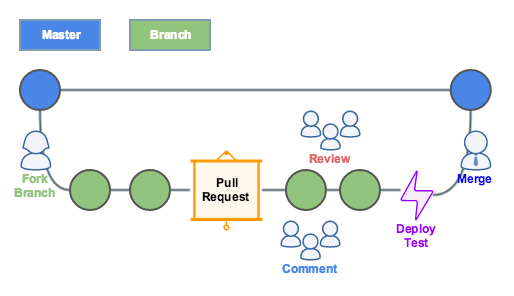
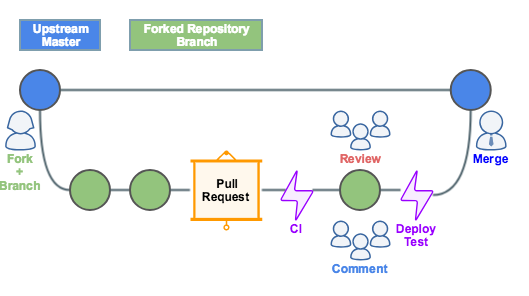
Enhance workflows; add GitLab issue/milestone for merge request
This splits the Forking workflow for GitHub and GitLab.
While it is common for GitHub and social coding to always
fork the repositories, own GitLab installations with roles and
permissions may just use local branches for merge requests.

This also is reflected by updated images.

In addition to this, users will now create a milestone
and issue which is automatically resolved later in the merge
request lab.

refs #10
fixes #13

diff --git a/day2/01_Workflows/07_Gitlab_Workflow.md b/day2/01_Workflows/07_Gitlab_Workflow.md
@@ -1,56 +1,12 @@
 !SLIDE smbullets
-# Forking Workflow with GitHub/GitLab
+# GitLab Workflow
 
-* Every developer has
- * a server-side repository
- * a private repository as copy of the server-side repo
-* Developers push their own server-side repository
-* Project maintainer pushes to official repository
+* Manage roles and permissions
+* Developers create `Merge Requests` from branches, tests and CI builds run automatically
+* Review and inline code comments
+* Project maintainer merges requests and manages issues/milestones/releases
 
-<center><img src="../../_images/workflows/git_forking_workflow_01.png" alt="Forking Workflow"/></center>
-
-~~~SECTION:handouts~~~
-
-****
-
-
-~~~ENDSECTION~~~
-
-!SLIDE smbullets
-# Forking Workflow - How it works
-
-* Developers fork, commit and push into their own repository
-* Developers create a `Pull Request` for the official repository, CI triggers automated tests for the PR
-* Developers/Maintainers review and merge PR, CI triggers deployment task
-
-<center><img src="../../_images/workflows/git_github_workflow.png" alt="GitHub Workflow"/></center>
-
-~~~SECTION:handouts~~~
-
-****
-
-References:
-
-GitHub: https://guides.github.com/introduction/flow/
-GitLab: https://docs.gitlab.com/ce/workflow/forking_workflow.html
-
-~~~ENDSECTION~~~
-
-!SLIDE smbullets small
-# Forking Workflow - Multiple Remote Repositories
-
-* **Multiple** remote repositories
- * `origin` is yours, e.g. git@github.com:dnsmichi/icinga2.git
- * `upstream` is official with releases, e.g. https://github.com/icinga/icinga2.git
-* Merge branches from `origin/<branch>` to `upstream/<branch>` and vice versa
-
-Example:
-
-    $ git remote -v
-    origin	git@github.com:dnsmichi/icinga2.git (fetch)
-    origin	git@github.com:dnsmichi/icinga2.git (push)
-    upstream	https://github.com/icinga/icinga2.git (fetch)
-    upstream	https://github.com/icinga/icinga2.git (push)
+<center><img src="../../_images/workflows/git_gitlab_workflow.png" alt="Gitlab Workflow"/></center>
 
 ~~~SECTION:handouts~~~
 
@@ -60,25 +16,54 @@ Example:
 ~~~ENDSECTION~~~
 
 !SLIDE smbullets
-# GitHub/GitLab Workflow - Keep in Sync
+# Lab ~~~SECTION:MAJOR~~~.~~~SECTION:MINOR~~~: Create Milestone and first Issue
 
-* Pull changes from `upstream` HEAD to own repository master branch to sync development
-* Remote `HEAD` is the default branch for this repository, usually `master`
-* Remember, HEAD is just a smart pointer. You can use a branch name too.
+* Objective
+ * Create Milestone `v0.1`
+ * Create Issue `Update documentation`
 
-Example:
-
-    $ git checkout master
-    $ git fetch upstream
-    $ git pull upstream HEAD
-    $ git push origin master
+* Steps:
+ * Navigate into `Issues > Milestones`
+ * Select `New Milestone` and use `v0.1` as title
+ * Navigate to `Issues` and select `New issue`
+ * Use `Update documentation` as title, add a description
+ * Assign the `v0.1` milestone
 
 ~~~SECTION:handouts~~~
 
 ****
 
-
 ~~~ENDSECTION~~~
+
+!SLIDE supplemental exercises
+# Lab ~~~SECTION:MAJOR~~~.~~~SECTION:MINOR~~~: Create Milestone and First Issue
+
+## Objective: Create Milestone and First Issue
+****
+
+* Create Milestone and First Issue
+
+## Steps:
+
+****
+
+* Navigate into `Issues > Milestones`
+* Select `New Milestone` and use `v0.1` as title
+* Navigate to `Issues` and select `New issue`
+* Use `Update documentation` as title, add a description
+* Assign the `v0.1` milestone
+
+!SLIDE supplemental solutions
+# Lab ~~~SECTION:MAJOR~~~.~~~SECTION:MINOR~~~: Proposed Solution
+****
+
+## Create Milestone and First Issue
+
+****
+
+Follow the instructions and ask the trainer for help.
+
+
 
 
 !SLIDE smbullets
@@ -92,9 +77,9 @@ Example:
  * Create the branch `feature/docs-merge-request`
  * Edit `README.md`, add, commit and push the changes
  * Open the proposed GitLab URL in your browser
- * Fill in the merge request and submit it
+ * Fill in the merge request and add `fixes #1`
  * Simulate a review and merge it
- * Pull changes to local master branch and use `tig`
+ * Analyse the history in GitLab/tig and open issue #1
 
 ~~~SECTION:handouts~~~
 
@@ -105,7 +90,7 @@ Example:
 !SLIDE supplemental exercises
 # Lab ~~~SECTION:MAJOR~~~.~~~SECTION:MINOR~~~: Create Merge Request
 
-## Objective: Merge Feature Branches
+## Objective: Create Merge Request
 ****
 
 * Create Merge Request
@@ -118,15 +103,15 @@ Example:
 * Create the branch `feature/docs-merge-request`
 * Edit `README.md`, add, commit and push the changes
 * Open the proposed GitLab URL in your browser
-* Fill in the merge request and submit it
+* Fill in the merge request and add `fixes #1`
 * Simulate a review and merge it
-* Pull changes to local master branch and use `tig`
+* Analyse the history in GitLab/tig and open issue #1
 
 !SLIDE supplemental solutions
 # Lab ~~~SECTION:MAJOR~~~.~~~SECTION:MINOR~~~: Proposed Solution
 ****
 
-## Merge Feature Branches
+## Create Merge Request
 
 ****
 
@@ -166,11 +151,18 @@ GitLab puts the URL into the shell output on pushing the branch.
 
 Open the URL in your browser.
 
-Specify a topic, description and create the merge request.
+Specify a topic and description. Add `fixes #1` into the MR's description.
+
+Create the merge request. Add a comment inline to the source code
+and see what happens in the interface.
 
 Merge the request to master and investigate the Git history.
 
-### Pull changes to master after merge
+Open the previously created issue and verify that is was closed
+by merging the MR.
+
+
+### Pull changes to local master after merge
 
     @@@ Sh
     $ git checkout master

diff --git a/day2/01_Workflows/06_Github_Flow.md b/day2/01_Workflows/06_Github_Flow.md
@@ -1,0 +1,83 @@
+!SLIDE smbullets
+# Forking Workflow with GitHub
+
+* Every developer has
+ * a server-side repository
+ * a private repository as copy of the server-side repo
+* Developers push their own server-side repository
+* Project maintainer pushes to official repository
+
+<center><img src="../../_images/workflows/git_forking_workflow_01.png" alt="Forking Workflow"/></center>
+
+~~~SECTION:handouts~~~
+
+****
+
+
+~~~ENDSECTION~~~
+
+!SLIDE smbullets
+# Forking Workflow - How it works
+
+* Developers fork, commit and push into their own repository
+* Developers create a `Pull Request` for the official repository, CI triggers automated tests for the PR
+* Developers/Maintainers review and merge PR, CI triggers deployment task
+
+<center><img src="../../_images/workflows/git_github_workflow.png" alt="GitHub Workflow"/></center>
+
+~~~SECTION:handouts~~~
+
+****
+
+References:
+
+GitHub: https://guides.github.com/introduction/flow/
+GitLab: https://docs.gitlab.com/ce/workflow/forking_workflow.html
+
+~~~ENDSECTION~~~
+
+!SLIDE smbullets small
+# Forking Workflow - Multiple Remote Repositories
+
+* **Multiple** remote repositories
+ * `origin` is yours, e.g. git@github.com:dnsmichi/icinga2.git
+ * `upstream` is official with releases, e.g. https://github.com/icinga/icinga2.git
+* Merge branches from `origin/<branch>` to `upstream/<branch>` and vice versa
+
+Example:
+
+    $ git remote -v
+    origin	git@github.com:dnsmichi/icinga2.git (fetch)
+    origin	git@github.com:dnsmichi/icinga2.git (push)
+    upstream	https://github.com/icinga/icinga2.git (fetch)
+    upstream	https://github.com/icinga/icinga2.git (push)
+
+~~~SECTION:handouts~~~
+
+****
+
+
+~~~ENDSECTION~~~
+
+!SLIDE smbullets
+# Forking Workflow - Keep in Sync
+
+* Pull changes from `upstream` HEAD to own repository master branch to sync development
+* Remote `HEAD` is the default branch for this repository, usually `master`
+* Remember, HEAD is just a smart pointer. You can use a branch name too.
+
+Example:
+
+    $ git checkout master
+    $ git fetch upstream
+    $ git pull upstream HEAD
+    $ git push origin master
+
+~~~SECTION:handouts~~~
+
+****
+
+
+~~~ENDSECTION~~~
+
+
